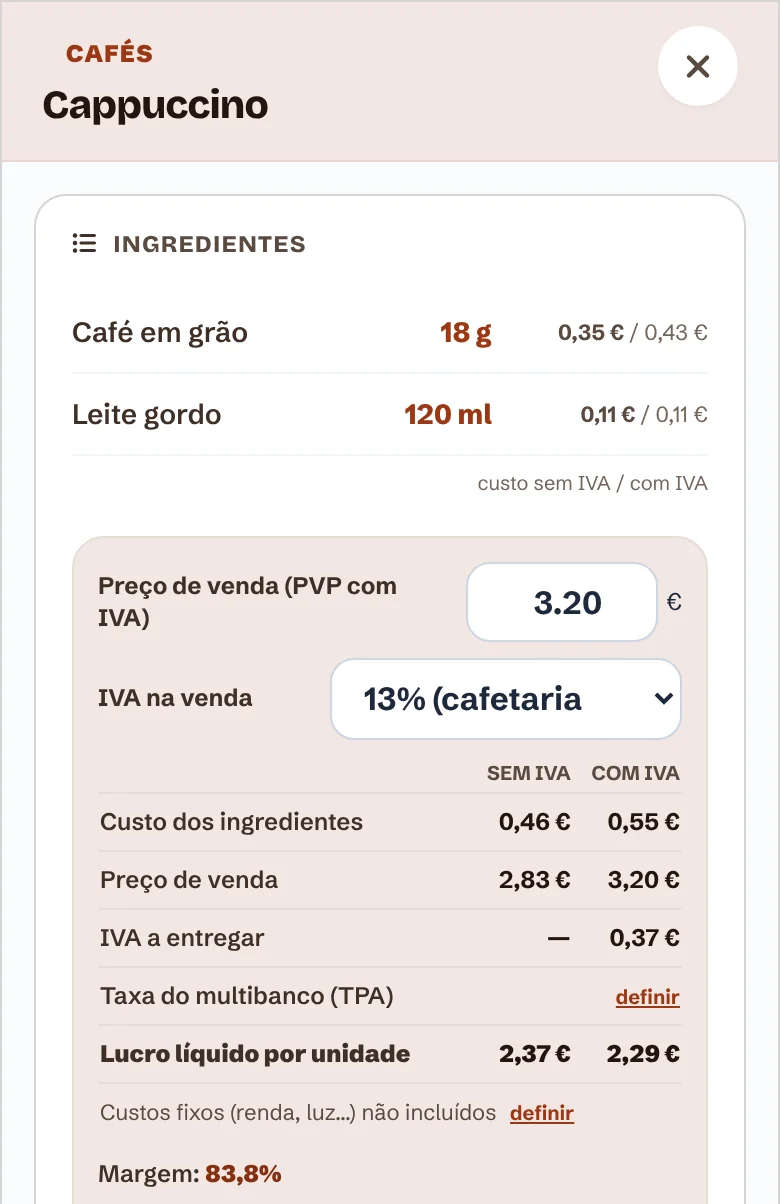
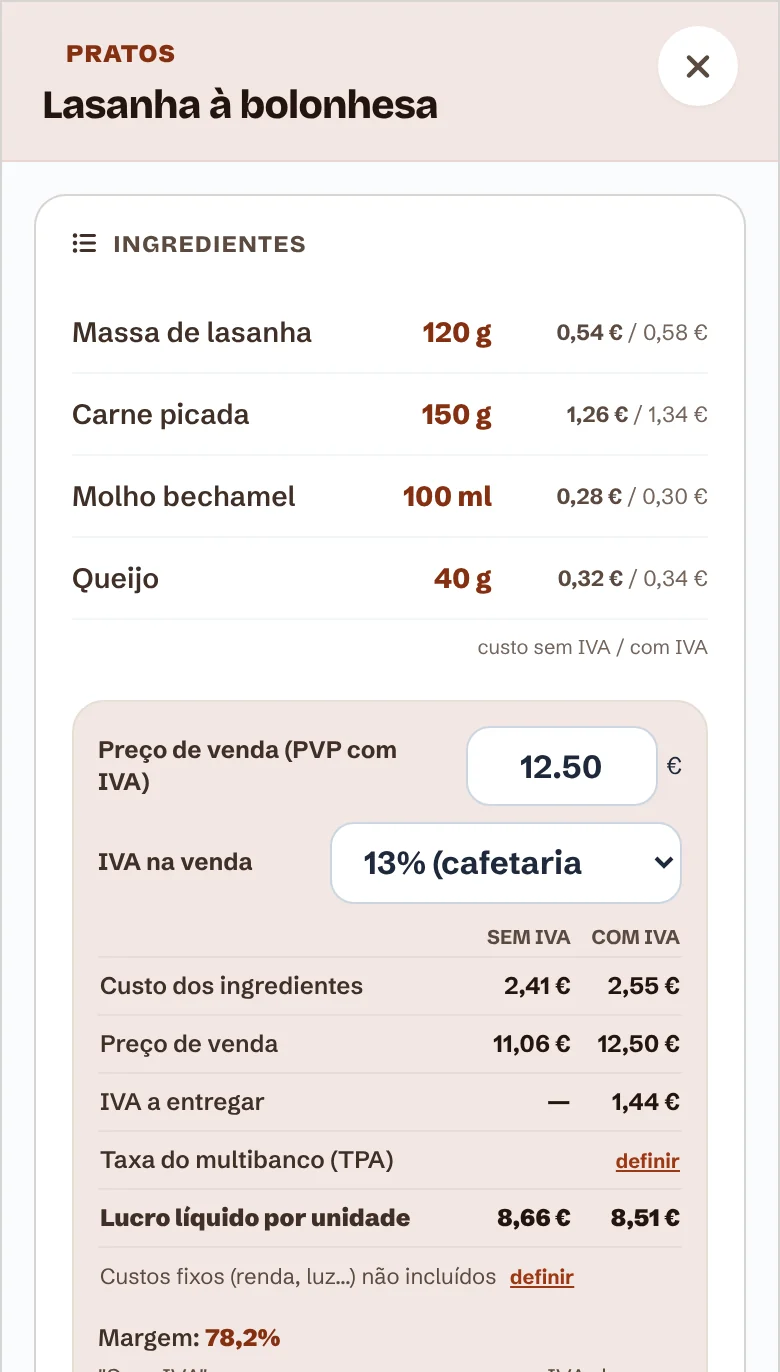
Site: ficha real de comida (lasanha) e pratos na calculadora de margem
Claude-Session: https://claude.ai/code/session_01P4cN4oXx97HCTCKxmscbEg

diff --git a/conhecer/index.html b/conhecer/index.html
@@ -443,13 +443,16 @@ body{background:#F6F3F0}
         <div><b id="f-nome">Latte</b><small id="f-copo">Ficha técnica · copo de 300 ml</small></div>
         <span class="tag">Experimente</span>
       </div>
-      <div class="bebidas" role="group" aria-label="Bebida">
+      <div class="bebidas" role="group" aria-label="Bebida ou prato">
         <button type="button" data-b="expresso">Expresso</button>
         <button type="button" data-b="latte" aria-pressed="true">Latte</button>
         <button type="button" data-b="gin">Gin tónico</button>
         <button type="button" data-b="aperol">Aperol Spritz</button>
         <button type="button" data-b="coca">Coca-Cola</button>
         <button type="button" data-b="zero">Coca-Cola Zero</button>
+        <button type="button" data-b="tosta">Tosta mista</button>
+        <button type="button" data-b="burger">Hambúrguer</button>
+        <button type="button" data-b="lasanha">Lasanha</button>
       </div>
       <div id="f-linhas"></div>
       <div class="lin tot num"><span>Custo de produção</span><output id="f-custo">0,86 €</output></div>
@@ -568,11 +571,11 @@ body{background:#F6F3F0}
         <div class="tx">
           <span class="eti">Fichas técnicas</span>
           <h3>O custo certo de cada prato e bebida</h3>
-          <p>Cada receita mostra quanto custa a fazer, quanto lhe sobra e o preço mínimo para a margem que quer. Quando o fornecedor sobe o leite, todas as fichas se atualizam.</p>
+          <p>Cada receita mostra quanto custa a fazer, quanto lhe sobra e o preço mínimo para a margem que quer. Quando o fornecedor sobe a carne ou o leite, todas as fichas se atualizam.</p>
           <ul class="chk"><li>Bebidas, pratos, brunch e bases</li><li>Foto e modo de preparo</li><li>Alergénios em cada ficha</li><li>Simulador de margem e lucro</li></ul>
           <span class="plano">Desde 5 € por mês</span>
         </div>
-        <div class="vis"><figure class="fc-tel"><img src="img/ficha.webp" width="390" height="602" alt="Ficha técnica do Cappuccino no Dio’Stock: custo dos ingredientes 0,55 €, preço de venda 3,20 €, IVA a entregar, lucro líquido de 2,37 € e margem de 83,8%" loading="lazy" decoding="async"><figcaption>Uma ficha real da app: o custo, o IVA e o que sobra de cada cappuccino</figcaption></figure></div>
+        <div class="vis"><figure class="fc-tel"><img src="img/ficha.webp?v=2" width="390" height="686" alt="Ficha técnica da Lasanha à bolonhesa no Dio’Stock: custo dos ingredientes 2,55 €, preço de venda 12,50 €, IVA a entregar 1,44 €, lucro líquido de 8,66 € e margem de 78,2%" loading="lazy" decoding="async"><figcaption>Uma ficha real da app: o custo, o IVA e o que sobra de cada lasanha</figcaption></figure></div>
       </article>
 
       <article class="bx bx-stock escuro">
@@ -770,7 +773,13 @@ body{background:#F6F3F0}
     coca: { nome: 'Coca-Cola', copo: 'Ficha técnica · lata de 33 cl', iva: 23, preco: 2.20, l: [
       ['Lata 33 cl', 0.45, '€/un', 1, 'un', 1, 0.01], ['Gelo e limão', 0.05, '€', 0, '', 0, 0.01] ] },
     zero: { nome: 'Coca-Cola Zero', copo: 'Ficha técnica · lata de 33 cl', iva: 23, preco: 2.20, l: [
-      ['Lata 33 cl', 0.45, '€/un', 1, 'un', 1, 0.01], ['Gelo e limão', 0.05, '€', 0, '', 0, 0.01] ] }
+      ['Lata 33 cl', 0.45, '€/un', 1, 'un', 1, 0.01], ['Gelo e limão', 0.05, '€', 0, '', 0, 0.01] ] },
+    tosta: { nome: 'Tosta mista', copo: 'Ficha técnica · 1 tosta', iva: 13, preco: 4.50, prato: true, l: [
+      ['Pão de forma', 0.10, '€/un', 2, 'un', 1, 0.01], ['Fiambre', 9, '€/kg', 40, 'g', 1000, 0.5], ['Queijo', 8.5, '€/kg', 40, 'g', 1000, 0.5], ['Manteiga e guardanapo', 0.08, '€', 0, '', 0, 0.01] ] },
+    burger: { nome: 'Hambúrguer', copo: 'Ficha técnica · 1 prato com batata', iva: 13, preco: 12.50, prato: true, l: [
+      ['Carne picada', 9.5, '€/kg', 150, 'g', 1000, 0.5], ['Pão de hambúrguer', 0.45, '€/un', 1, 'un', 1, 0.01], ['Batata frita', 1.6, '€/kg', 180, 'g', 1000, 0.1], ['Queijo, alface, tomate e molho', 0.45, '€', 0, '', 0, 0.01] ] },
+    lasanha: { nome: 'Lasanha', copo: 'Ficha técnica · 1 dose', iva: 13, preco: 11.00, prato: true, l: [
+      ['Carne picada', 8.9, '€/kg', 150, 'g', 1000, 0.5], ['Massa de lasanha', 4.8, '€/kg', 100, 'g', 1000, 0.5], ['Queijo', 8.5, '€/kg', 40, 'g', 1000, 0.5], ['Molho bechamel e tomate', 0.55, '€', 0, '', 0, 0.01] ] }
   };
   let preco = 3.80, cur = null;
   const $ = id => document.getElementById(id);
@@ -793,8 +802,8 @@ body{background:#F6F3F0}
     const ip = $('f-preco'); if (document.activeElement !== ip) ip.value = preco.toLocaleString('pt-PT', { minimumFractionDigits: 2, maximumFractionDigits: 2 });
     $('f-margem').textContent = Math.round(m) + '%';
     $('f-margem').classList.toggle('mal', m < 60);
-    $('f-txt').innerHTML = sobra > 0 ? 'de margem. Sobram <b class="num">' + fmt(sobra) + '</b> por bebida' + (iva ? ', já sem IVA.' : '.') : 'de margem. A este preço, perde dinheiro em cada bebida.';
-    $('f-iva').textContent = b.iva === 13 ? 'IVA da restauração (13%) já descontado.' : 'IVA de 23% já descontado (bebidas alcoólicas e refrigerantes).';
+    $('f-txt').innerHTML = sobra > 0 ? 'de margem. Sobram <b class="num">' + fmt(sobra) + '</b> por ' + (b.prato ? 'prato' : 'bebida') + (iva ? ', já sem IVA.' : '.') : 'de margem. A este preço, perde dinheiro em cada ' + (b.prato ? 'prato.' : 'bebida.');
+    $('f-iva').textContent = b.iva === 13 ? 'IVA da restauração (13%) já descontado' + (b.prato ? ' (refeições).' : '.') : 'IVA de 23% já descontado (bebidas alcoólicas e refrigerantes).';
   }
   function escolher(k) {
     const b = B[k]; cur = k; preco = b.preco;

diff --git a/sw.js b/sw.js
@@ -1,6 +1,6 @@
 // Dio’Stock — service worker: abre o app mesmo com internet fraca.
 // Os dados (Supabase) vão sempre à rede; só o próprio app fica guardado.
-const CACHE = 'diostock-1795596430';
+const CACHE = 'diostock-1795596456';
 const APP = ['./', './index.html', './manifest.webmanifest', './icon-192.png', './icon-512.png', './apple-touch-icon.png', './termos.html', './ajuda.html', './fontes/fontes.css', './vendor/fa/css/all.min.css'];
 self.addEventListener('install', e => { e.waitUntil(caches.open(CACHE).then(c => c.addAll(APP)).then(() => self.skipWaiting())); });
 self.addEventListener('activate', e => {
